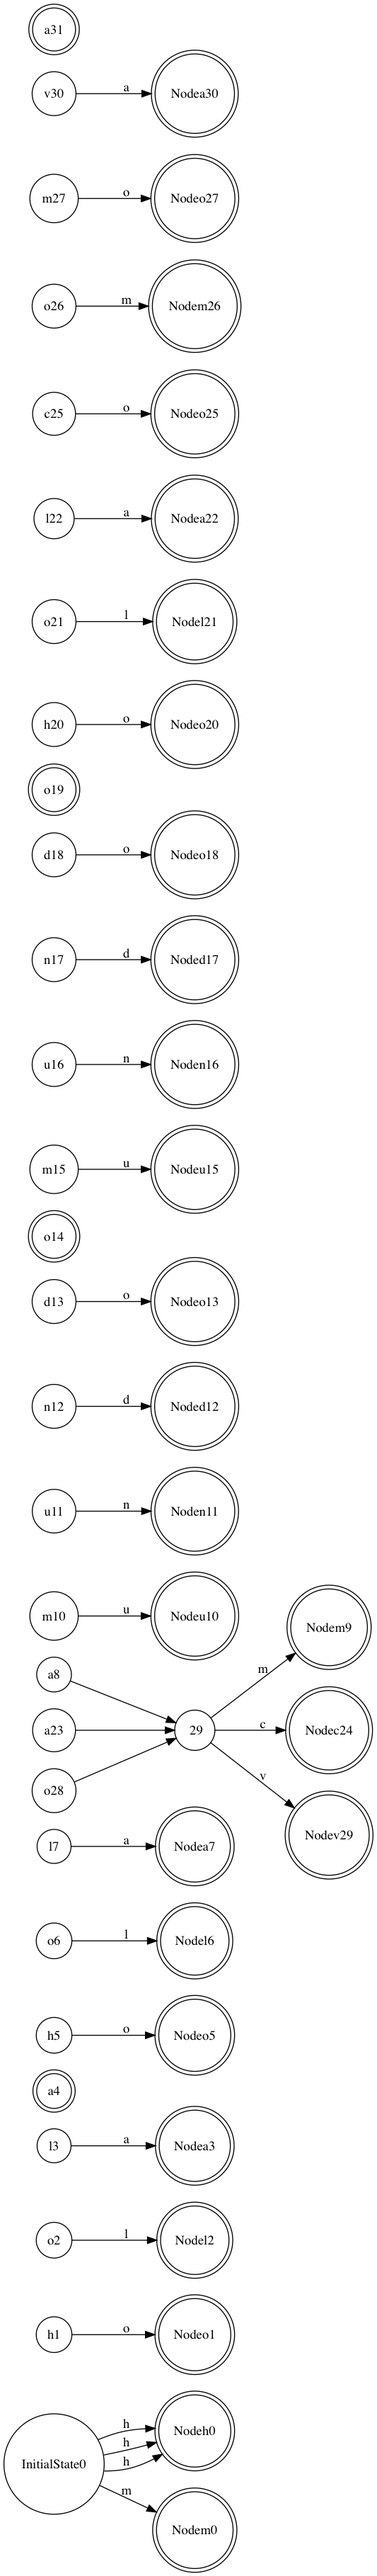
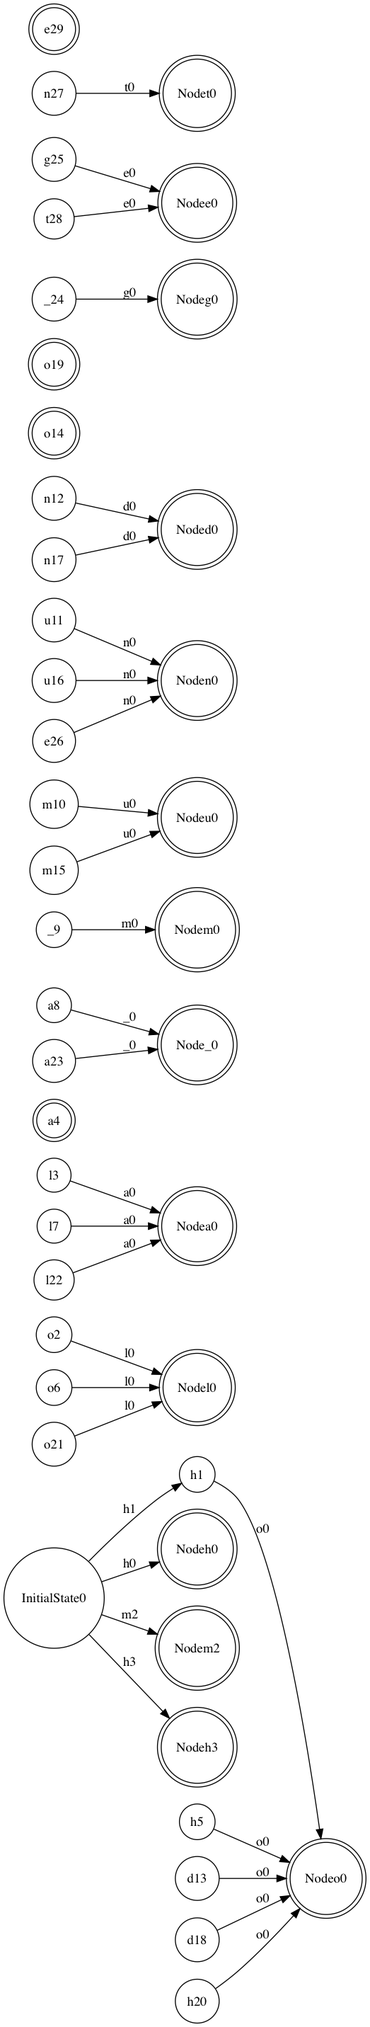
commit Sebas

diff --git a/src/resources/files/t1.html b/src/resources/files/t1.html
@@ -7,6 +7,13 @@
 TPE de TLA
 Esta es una prueba para el TPE 1 de TLA
 La palabra prueba aparece 2 veces
+			   hola
+			   hola mundo
+			   hola
+			   hola
+			   mundo
+			   mundo
+			   hola gente
 
 			      </body>
 				   </html>

diff --git a/src/main/java/Main.java b/src/main/java/Main.java
@@ -53,7 +53,7 @@ public class Main {
     private static void generateIndexTxt(FiniteAutomaton automat, File[] files) {
         final Map<String, ArrayList<Integer>> concurrencyMap = automat.getConcurrencyMap();
         try{
-            FileWriter writer = new FileWriter(new File("index.txt"));
+            FileWriter writer = new FileWriter(new File("example/index.txt"));
             concurrencyMap.forEach((s, integers) -> {
                 try {
                     writer.append(s+'\n');
@@ -92,20 +92,25 @@ public class Main {
         try {
             FileWriter writer = new FileWriter(file);
             writer.append("digraph { \n\t rankdir = \"LR\"; \n");
-            Integer index = 0;
+            int index = 0;
             for (FiniteState finiteState: states) {
+                String stateName = finiteState.getName().equals(" ") ? "_".concat(String.valueOf(index)) : finiteState.getName().concat(String.valueOf(index));
                 if(finiteState.isFinal()){
-                    writer.append("\t node [shape=doublecircle] Node").append(finiteState.getName().equals(" ") ? "_" : finiteState.getName().concat(index.toString())).append(" [label ="+'"').append(finiteState.getName().concat(index.toString())).append('"'+"];\n");
+                    writer.append("\t node [shape=doublecircle] Node").append(stateName).append(" [label ="+'"').append(stateName).append('"'+"];\n");
                 }else{
-                    writer.append("\t node [shape=circle] Node").append(finiteState.getName().equals(" ") ? "_" : finiteState.getName().concat(index.toString())).append(" [label ="+'"').append(finiteState.getName().concat(index.toString())).append('"'+"];\n");
+                    writer.append("\t node [shape=circle] Node").append(stateName).append(" [label ="+'"').append(stateName).append('"'+"];\n");
                 }
                 index++;
             }
-            Integer indexx = 0;
+//            writer.append(declareStates(automaton.getInitialState(), 0));
+            int indexx = 0;
             for (FiniteState finiteState : states){
-                String nodeName = finiteState.getName().equals(" ") ? "_" : finiteState.getName().concat(indexx.toString());
+                String nodeName = finiteState.getName().equals(" ") ? "_".concat(String.valueOf(indexx)) : finiteState.getName().concat(String.valueOf(indexx));
+                int indexxx = 0;
                 for (FiniteTransition transition: finiteState.getTransitions()){
-                    writer.append("\t Node").append(nodeName).append(" -> Node").append(transition.getState().getName().equals(" ") ? "_" : transition.getState().getName().concat(indexx.toString())).append("[label=").append(String.valueOf('"')).append(String.valueOf(transition.getChar())).append(String.valueOf('"')).append("];\n");
+                    String stateName = transition.getState().getName().equals(" ") ? "_".concat(String.valueOf(indexxx)) : transition.getState().getName().concat(String.valueOf(indexxx));
+                    writer.append("\t Node").append(nodeName).append(" -> Node").append(stateName).append("[label=").append(String.valueOf('"')).append(stateName).append(String.valueOf('"')).append("];\n");
+                    indexxx++;
                 }
                 indexx++;
             }
@@ -116,18 +121,28 @@ public class Main {
         }
     }
 
-    private static String overState(FiniteState state, int stateNumber) {
-        String nodes = "";
-        while(!state.isFinal()){
-            nodes.concat("\t node [shape=circle] Node").concat(state.getName().equals(" ") ? "_".concat(String.valueOf(stateNumber)) : state.getName().concat(String.valueOf(stateNumber))).concat(" [label ="+'"').concat(state.getName().concat(String.valueOf(stateNumber)).concat('"'+"];\n"));
-            for (FiniteTransition transition: state.getTransitions()) {
-                overState(transition.getState(), stateNumber);
-                stateNumber ++;
-            }
-        }
-        nodes.concat("\t node [shape=doublecircle] Node").concat(state.getName().equals(" ") ? "_".concat(String.valueOf(stateNumber)) : state.getName().concat(String.valueOf(stateNumber))).concat(" [label ="+'"').concat(state.getName().concat(String.valueOf(stateNumber)).concat('"'+"];\n"));
-        return nodes;
-    }
+//    private static String declareStates(FiniteState state, int stateNumber) {
+//        String nodes = "";
+//        String stateName = state.getName().equals(" ") ? "_".concat(String.valueOf(stateNumber)) : state.getName().concat(String.valueOf(stateNumber));
+//        if(!state.isFinal()){
+//            nodes = nodes.concat("\t node [shape=circle] Node").concat(stateName).concat(" [label ="+'"').concat(stateName).concat('"'+"];\n");
+//            for (FiniteTransition transition: state.getTransitions()) {
+//                nodes = nodes.concat(declareStates(transition.getState(), stateNumber));
+//                stateNumber ++;
+//            }
+//        }
+//        nodes = nodes.concat("\t node [shape=doublecircle] Node").concat(stateName).concat(" [label ="+'"').concat(stateName).concat('"'+"];\n");
+//        return nodes;
+//    }
+
+//    private static String goOverStates(FiniteState state, int stateNumber) {
+//        String nodes = "";
+//        String stateName = state.getName().equals(" ") ? "_".concat(String.valueOf(stateNumber)) : state.getName().concat(String.valueOf(stateNumber));
+//        if(!state.isFinal()){
+//            nodes = nodes.concat("\t Node").concat(stateName).concat(" -> Node").concat()
+//        }
+//        return nodes;
+//    }
 
     /**
      * Read the DOT source from a file,

diff --git a/src/main/java/Graph/Vertex.java b/src/main/java/Graph/Vertex.java
@@ -1,8 +1,10 @@
 package Graph;
 
 public class Vertex {
+
     private Vertex value;
     private boolean isAcceptanceState;
+
     //TODO No estoy seguro si esto es necesario
     public Vertex(Vertex value, boolean isAcceptanceState){
         this.value = value;

diff --git a/src/main/java/Automaton/FiniteAutomaton.java b/src/main/java/Automaton/FiniteAutomaton.java
@@ -115,7 +115,7 @@ public class FiniteAutomaton {
     }
 
     public void emptyAutomaton(){
-        this.initialState = new FiniteState("Initial State");
+        this.initialState = new FiniteState("InitialState");
     }
 
     /**

diff --git a/src/main/java/Graph/GraphImpl.java b/src/main/java/Graph/GraphImpl.java
@@ -4,6 +4,7 @@ import java.util.ArrayList;
 import java.util.List;
 
 public class GraphImpl<T> implements GraphInterface<T>  {
+
     private ArrayList<T> vertexArray;
     private boolean[][] edges;
     private int index;
